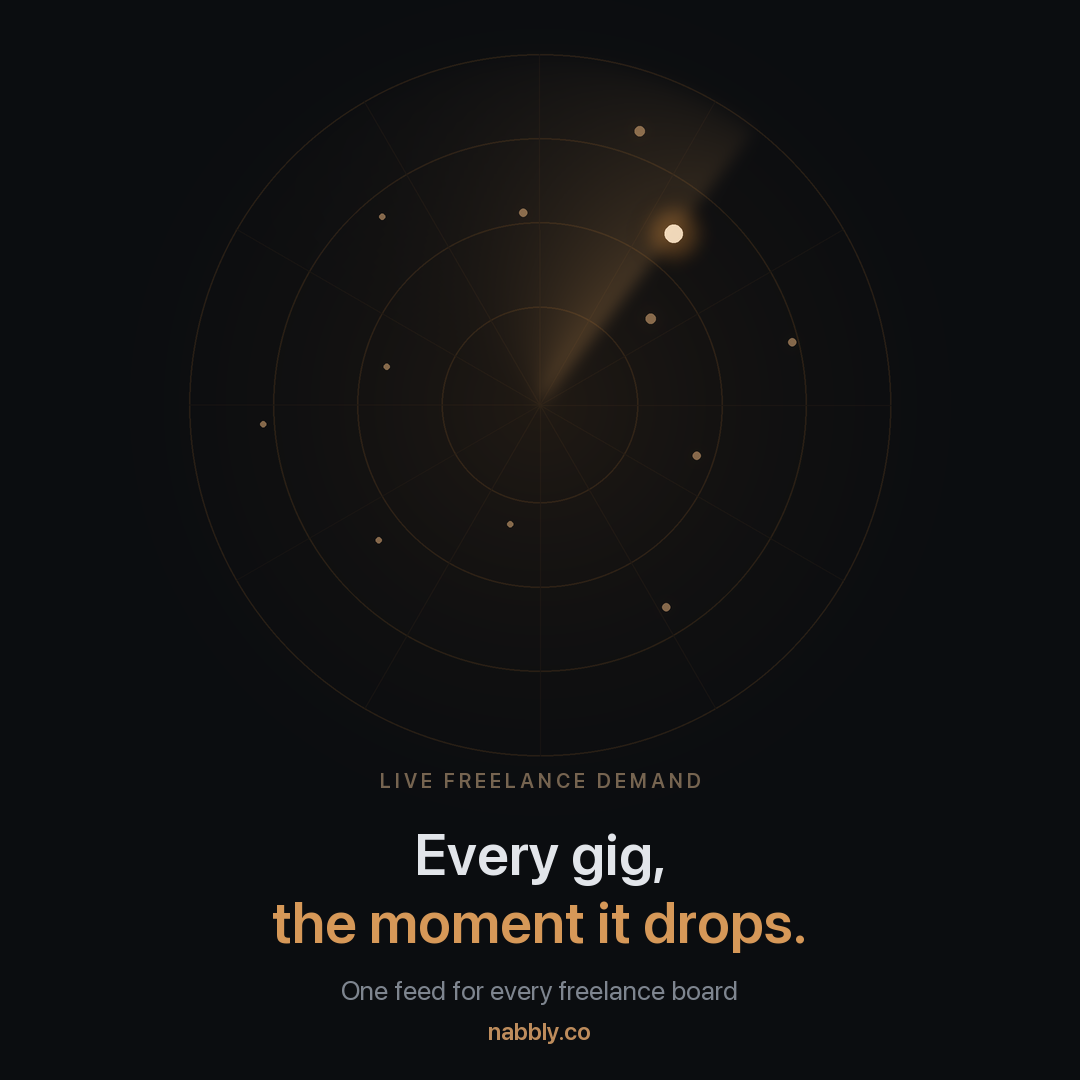
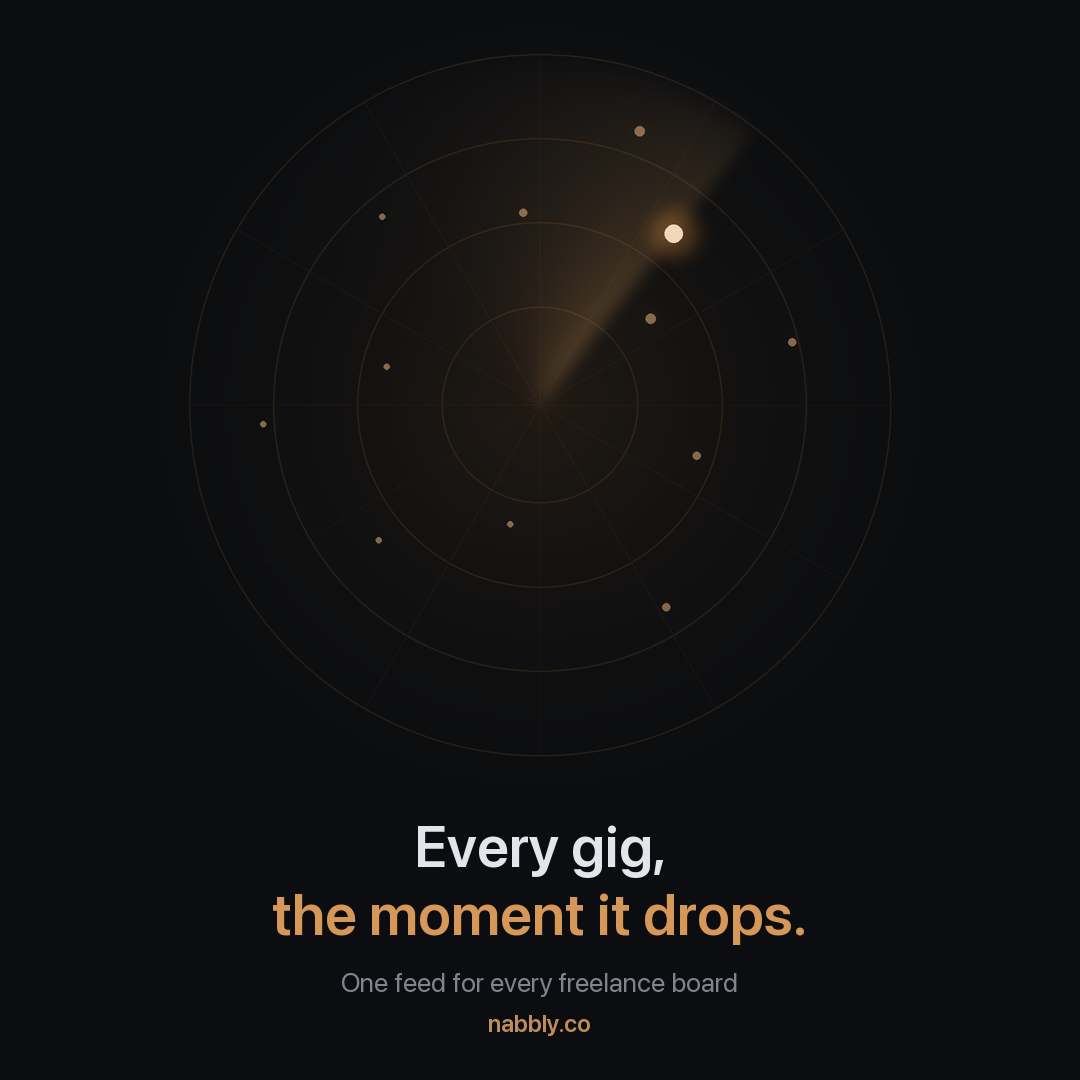
Drop the eyebrow label from the weekly post

Changed region(s): [[0.2444, 0.7639, 0.7639, 0.9778], [0.3667, 0.7028, 0.6417, 0.7333]]

diff --git a/tools/make_post.py b/tools/make_post.py
@@ -154,23 +154,16 @@ d = ImageDraw.Draw(img)
 f_h = font(58, "Semibold")            # smaller and a shade lighter than Bold
 f_sub = font(27, "Regular", ARIAL)
 f_url = font(24, "Semibold", ARIAL_B)
-f_kick = font(20, "Semibold", ARIAL_B)
 SOFT_AMBER = (214, 152, 88)           # the accent, pulled back from full strength
 
-# eyebrow, letterspaced by hand for a considered look
-kick, kx, ky = "LIVE FREELANCE DEMAND", S * 0.5, S * 0.722
-kw = sum(d.textlength(ch, font=f_kick) + 4.0 for ch in kick) - 4.0
-x = kx - kw / 2
-for ch in kick:
-    d.text((x, ky), ch, font=f_kick, fill=(118, 100, 80), anchor="lm")
-    x += d.textlength(ch, font=f_kick) + 4.0
-
-d.text((S * 0.5, S * 0.790), "Every gig,", font=f_h, fill=(226, 229, 234), anchor="mm")
-d.text((S * 0.5, S * 0.853), "the moment it drops.", font=f_h, fill=SOFT_AMBER,
+# No eyebrow label — the headline says it, and the empty space above it does
+# more for the composition than a second line of type would.
+d.text((S * 0.5, S * 0.782), "Every gig,", font=f_h, fill=(226, 229, 234), anchor="mm")
+d.text((S * 0.5, S * 0.845), "the moment it drops.", font=f_h, fill=SOFT_AMBER,
        anchor="mm")
-d.text((S * 0.5, S * 0.916), "One feed for every freelance board", font=f_sub,
+d.text((S * 0.5, S * 0.908), "One feed for every freelance board", font=f_sub,
        fill=(126, 133, 143), anchor="mm")
-d.text((S * 0.5, S * 0.955), "nabbly.co", font=f_url, fill=(190, 140, 92), anchor="mm")
+d.text((S * 0.5, S * 0.947), "nabbly.co", font=f_url, fill=(190, 140, 92), anchor="mm")
 
 path = OUT / "week-01-radar.png"
 img.save(path, "PNG", optimize=True)
